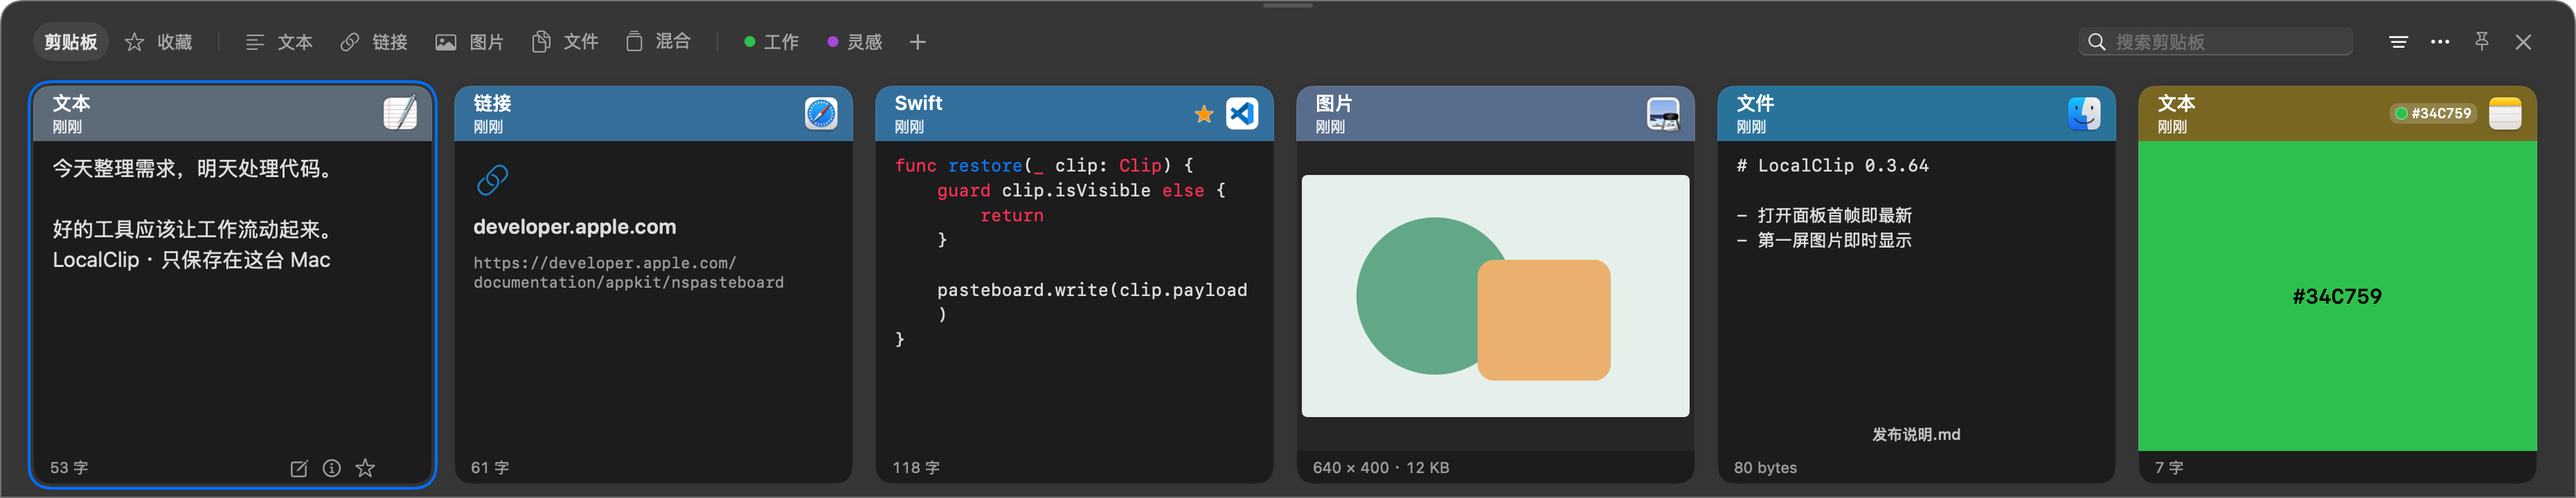
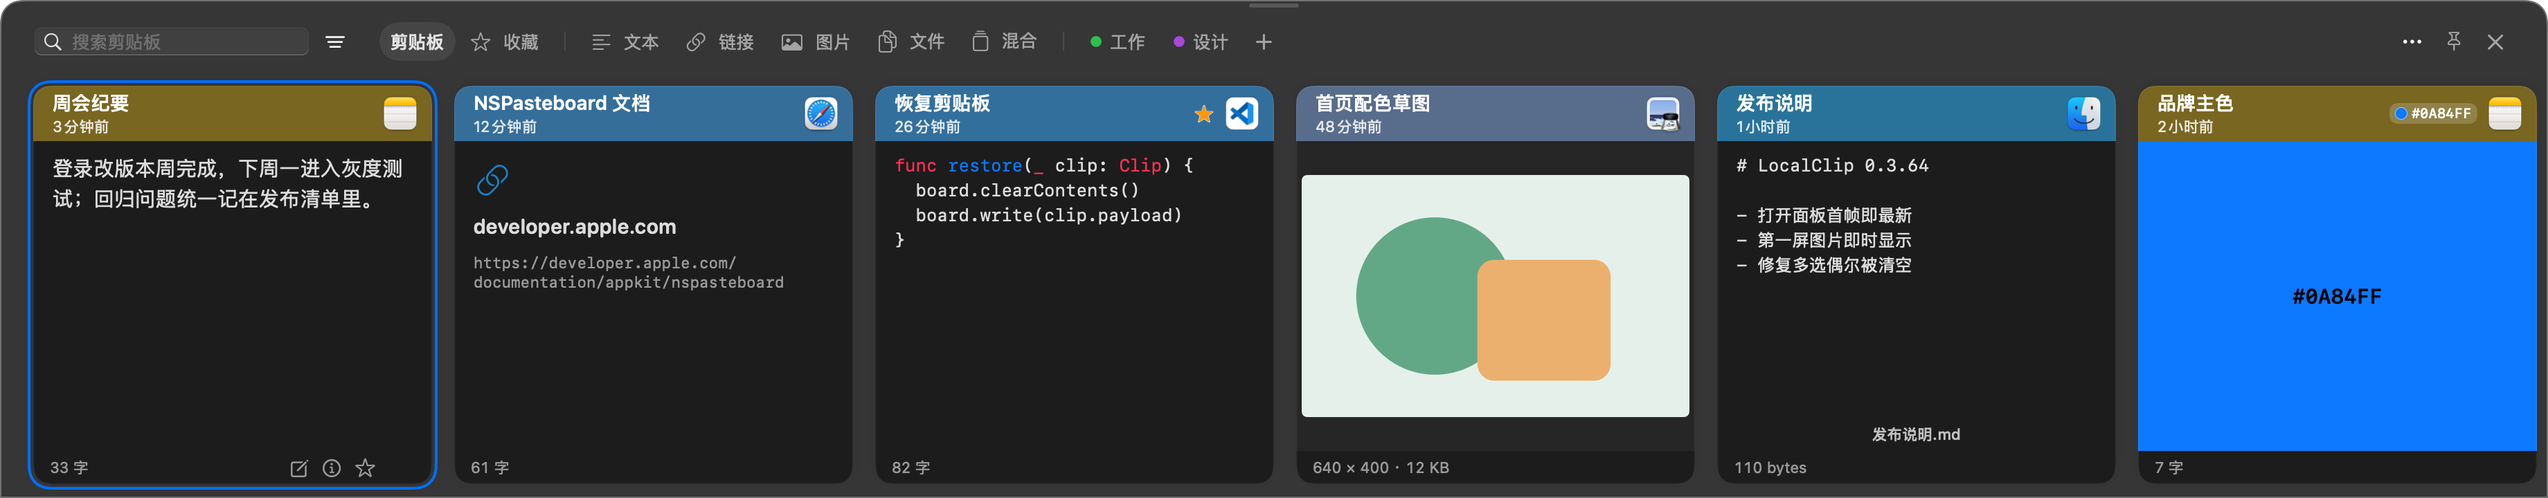
docs: 用规整的合成数据重拍 README 截图，历史管理截图移入界面预览
- ReadmeScreenshotTests 改为十条带名称、时间分布、收藏与“工作/设计”分类的记录
- 按 v0.3.65 界面重拍浅色/深色底部面板与历史管理窗口截图，面板宽度恰好放下六张卡片
- 中英文 README 的历史管理截图移到界面预览章节

diff --git a/macos-app/Tests/LocalClipIntegrationTests/ReadmeScreenshotTests.swift b/macos-app/Tests/LocalClipIntegrationTests/ReadmeScreenshotTests.swift
@@ -12,7 +12,7 @@ import LocalClipCore
         let model: HistoryViewModel, capture: CaptureCoordinator, ids: [ClipID], output: URL
     }
 
-    /// 六种内容各一条，最后一条最新；收藏代码片段，建两个分类。
+    /// 十条规整的合成记录（ids[0] 最新），带名称、收藏与“工作/设计”分类。
     private func seed(_ root: URL) async throws -> Seeded {
         _ = NSApplication.shared
         let output = URL(fileURLWithPath: try #require(ProcessInfo.processInfo.environment["LOCALCLIP_REVIEW_VISUAL_OUTPUT"]))
@@ -32,29 +32,36 @@ import LocalClipCore
             return try #require(bitmap.representation(using: .png, properties: [:]))
         }
         func text(_ value: String) -> ClipboardPayload { .init([.init([.init(SupportedType.string, Data(value.utf8))])]) }
+        func link(_ value: String) -> ClipboardPayload { .init([.init([.init(SupportedType.url, Data(value.utf8)), .init(SupportedType.string, Data(value.utf8))])]) }
         func source(_ id: String, _ name: String) -> SourceAttribution { .init(bundleID: id, name: name) }
         let notes = root.appendingPathComponent("发布说明.md")
-        try Data("# LocalClip 0.3.64\n\n- 打开面板首帧即最新\n- 第一屏图片即时显示\n".utf8).write(to: notes)
-        let link = "https://developer.apple.com/documentation/appkit/nspasteboard"
-        // 先插入的排在后面；最后一条是选中的首张卡片。
-        let records: [(ClipboardPayload, SourceAttribution)] = [
-            (text("#34C759"), source("com.apple.Notes", "备忘录")),
-            (.init([.init([.init(SupportedType.fileURL, Data(notes.absoluteString.utf8))])]), source("com.apple.finder", "访达")),
-            (.init([.init([.init(SupportedType.png, try artwork())])]), source("com.apple.Preview", "预览")),
-            (text("func restore(_ clip: Clip) {\n    guard clip.isVisible else {\n        return\n    }\n    pasteboard.write(clip.payload)\n}"), source("com.microsoft.VSCode", "Visual Studio Code")),
-            (.init([.init([.init(SupportedType.url, Data(link.utf8)), .init(SupportedType.string, Data(link.utf8))])]), source("com.apple.Safari", "Safari")),
-            (text("今天整理需求，明天处理代码。\n\n好的工具应该让工作流动起来。\nLocalClip · 只保存在这台 Mac"), source("com.apple.TextEdit", "文本编辑")),
+        try Data("# LocalClip 0.3.64\n\n- 打开面板首帧即最新\n- 第一屏图片即时显示\n- 修复多选偶尔被清空\n".utf8).write(to: notes)
+        let code = source("com.microsoft.VSCode", "Visual Studio Code"), safari = source("com.apple.Safari", "Safari")
+        // 一位开发者一天里的复制，按时间从新到旧；分钟数决定“x分钟前/x小时前/昨天”。
+        let records: [(payload: ClipboardPayload, source: SourceAttribution, minutesAgo: Int64, title: String?)] = [
+            (text("登录改版本周完成，下周一进入灰度测试；回归问题统一记在发布清单里。"), source("com.apple.Notes", "备忘录"), 3, "周会纪要"),
+            (link("https://developer.apple.com/documentation/appkit/nspasteboard"), safari, 12, "NSPasteboard 文档"),
+            (text("func restore(_ clip: Clip) {\n  board.clearContents()\n  board.write(clip.payload)\n}"), code, 26, "恢复剪贴板"),
+            (.init([.init([.init(SupportedType.png, try artwork())])]), source("com.apple.Preview", "预览"), 48, "首页配色草图"),
+            (.init([.init([.init(SupportedType.fileURL, Data(notes.absoluteString.utf8))])]), source("com.apple.finder", "访达"), 95, "发布说明"),
+            (text("#0A84FF"), source("com.apple.Notes", "备忘录"), 140, "品牌主色"),
+            (text("git log --oneline -5"), source("com.apple.Terminal", "终端"), 210, "查看最近提交"),
+            (text("{\n  \"version\": \"0.3.64\",\n  \"build\": 86,\n  \"channel\": \"stable\"\n}"), code, 320, "版本配置"),
+            (text("您好，附件是 10 月版本的验收清单，请在周五前确认。"), source("com.apple.mail", "邮件"), 26 * 60, "验收清单邮件"),
+            (link("https://www.swift.org/documentation/"), safari, 30 * 60, "Swift 文档"),
         ]
         let now = SystemClock().now()
         var ids: [ClipID] = []
-        for (index, record) in records.enumerated() {
-            guard case .inserted(let id) = try await store.ingest(.init(payload: record.0, source: record.1), at: now + Int64(index)) else { throw StoreError.notFound }
-            ids.append(id)
+        // 先插入最旧的，列表按最近复制排在前面；ids 与 records 同序。
+        for record in records.reversed() {
+            guard case .inserted(let id) = try await store.ingest(.init(payload: record.payload, source: record.source), at: now - record.minutesAgo * 60_000) else { throw StoreError.notFound }
+            if let title = record.title { try await store.renameClip(id: id, title: title) }
+            ids.insert(id, at: 0)
         }
-        let favorite = try await store.preview(.favorite(ids[3], true)); _ = try await store.apply(favorite.token)
+        for index in [2, 7] { let favorite = try await store.preview(.favorite(ids[index], true)); _ = try await store.apply(favorite.token) }
         let work = try await store.createCategory(name: "工作", colorHex: "34C759")
-        let ideas = try await store.createCategory(name: "灵感", colorHex: "AF52DE")
-        for (members, category) in [([ids[3], ids[5]], work), ([ids[2]], ideas)] {
+        let design = try await store.createCategory(name: "设计", colorHex: "AF52DE")
+        for (members, category) in [([ids[0], ids[2], ids[7], ids[8]], work), ([ids[3], ids[5]], design)] {
             let change = try await store.preview(.category(members, category.id, true)); _ = try await store.apply(change.token)
         }
         try await model.start(); capture.stop()
@@ -77,9 +84,9 @@ import LocalClipCore
         try FileManager.default.createDirectory(at: root, withIntermediateDirectories: true)
         defer { try? FileManager.default.removeItem(at: root) }
         let seeded = try await seed(root), model = seeded.model
-        model.select(seeded.ids.last)
-        // 宽度容纳全部六张卡片，不出现半张截断。
-        let width = 1860.0, height = 360.0
+        model.select(seeded.ids.first)
+        // 宽度恰好放下六张卡片，右侧不露出半张。
+        let width = 1840.0, height = 360.0
         let host = NSHostingView(rootView: HistoryView(model: model)); host.sizingOptions = []
         let window = NSPanel(contentRect: .init(x: 0, y: 0, width: width, height: height), styleMask: [.borderless, .nonactivatingPanel], backing: .buffered, defer: false)
         window.isReleasedWhenClosed = false; window.contentView = host
@@ -105,10 +112,10 @@ import LocalClipCore
         defer { manager.stop(); seeded.capture.stop() }
         let until = ContinuousClock.now + .seconds(15)
         while manager.rows.count < seeded.ids.count, ContinuousClock.now < until { try await Task.sleep(for: .milliseconds(10)) }
-        manager.selection = [seeded.ids[3]]
+        manager.selection = [seeded.ids[2]]
         while manager.detail == nil, ContinuousClock.now < until { try await Task.sleep(for: .milliseconds(10)) }
-        // 默认宽度；高度收到六行数据刚好铺满，避免大片空行。
-        let size = NSSize(width: HistoryManagerWindow.defaultSize.width, height: 520)
+        // 默认宽度；高度收到十行数据刚好铺满，避免大片空行。
+        let size = NSSize(width: HistoryManagerWindow.defaultSize.width, height: 680)
         let host = NSHostingView(rootView: HistoryManagerView(model: manager, history: seeded.model)); host.sizingOptions = []
         let window = NSPanel(contentRect: .init(origin: .zero, size: size), styleMask: [.borderless, .nonactivatingPanel], backing: .buffered, defer: false)
         window.isReleasedWhenClosed = false; window.contentView = host; window.appearance = NSAppearance(named: .aqua)

diff --git a/README.md b/README.md
@@ -51,8 +51,6 @@ Whether you are copying plain text, rich formats (RTF/HTML), code snippets, high
 - Page-by-page browsing, sorting, search and batch actions; drag one or many records onto a sidebar category to file them.
 - Categories in the sidebar support rename and delete from the context menu. The bottom drawer hides while the manager is open.
 
-![History Manager](macos-app/docs/images/history-manager.png)
-
 #### 🪄 Smart Paste & Frictionless Workflow
 - **Double-Click Direct Paste**: Single-click to select; double-click a card to restore its original formats and paste into the previously focused app. `Return` performs the default action (direct paste or copy only), `⇧Return` pastes plain text.
 - **Quick Paste by Number**: Hold the quick-paste modifier (default `⌘`) to reveal number badges, then press `1`–`9` to paste that card from the current list.
@@ -81,6 +79,10 @@ Whether you are copying plain text, rich formats (RTF/HTML), code snippets, high
 **Dark Mode**
 
 ![Dark Mode](macos-app/docs/images/dark.png)
+
+**History Manager**
+
+![History Manager](macos-app/docs/images/history-manager.png)
 
 ---
 

diff --git a/README_zh-CN.md b/README_zh-CN.md
@@ -51,8 +51,6 @@
 - 按页码浏览、排序、搜索与批量管理；单条或多条记录可直接拖到侧栏分类中归类。
 - 侧栏分类支持右键重命名与删除；打开管理窗口时底部面板自动收起。
 
-![历史管理窗口](macos-app/docs/images/history-manager.png)
-
 #### 🪄 智能粘贴与高效交互
 - **双击自动粘贴**：单击选择，**双击卡片正文**即恢复原格式并粘贴到唤起前的目标应用。`Return` 执行默认操作（直接粘贴或仅复制），`⇧Return` 粘贴纯文本。
 - **数字快捷粘贴**：按住快捷粘贴修饰键（默认 `⌘`）显示数字角标，再按 `1`–`9` 粘贴当前列表中对应的卡片。
@@ -81,6 +79,10 @@
 **深色模式**
 
 ![深色模式](macos-app/docs/images/dark.png)
+
+**历史管理窗口**
+
+![历史管理窗口](macos-app/docs/images/history-manager.png)
 
 ---
 
